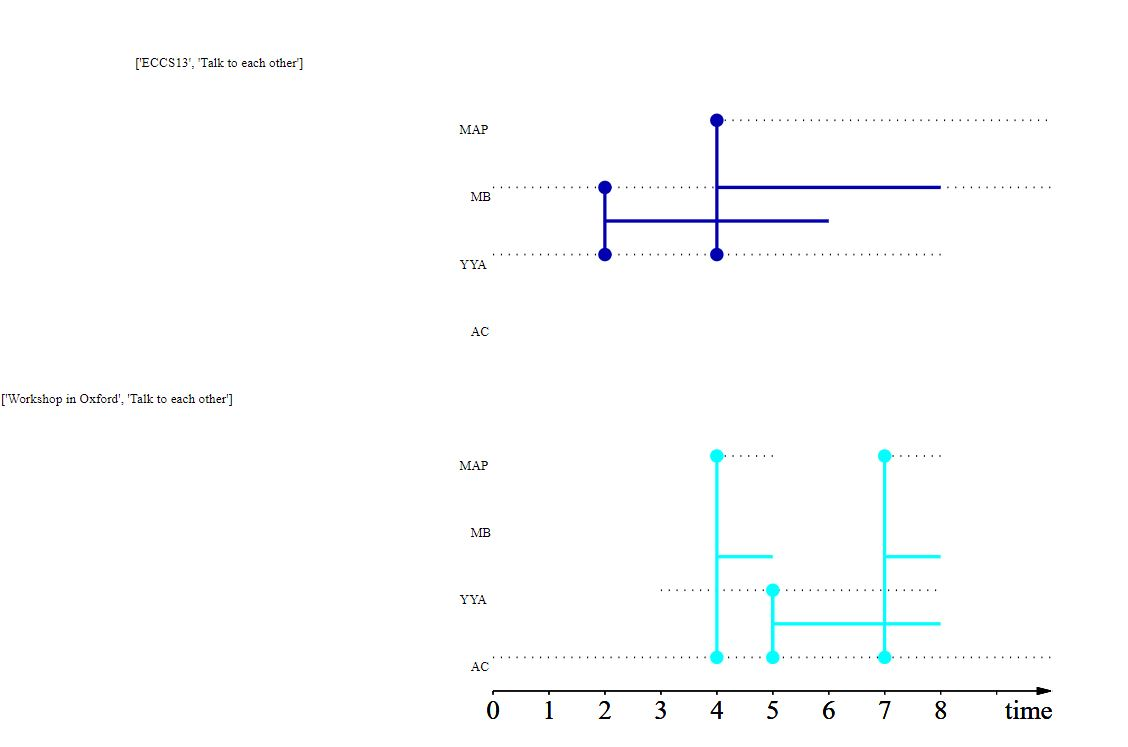
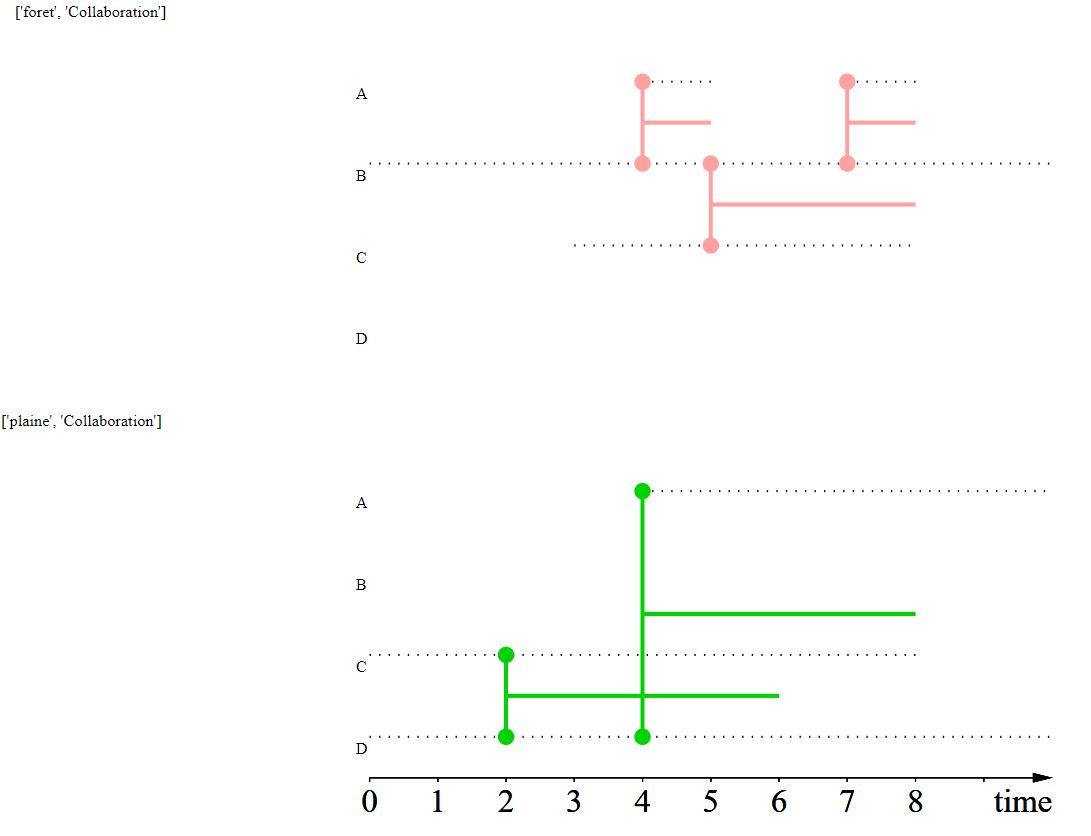
update report

diff --git a/tex/rapport de stage/rapport.tex b/tex/rapport de stage/rapport.tex
@@ -50,6 +50,43 @@
 \newcommand{\yslant}{0.5}
 \newcommand{\xslant}{-0.6}
 
+%%%%%%%%%%%%%%%%%%%%%%%%%%%%%%%% TIKZ STYLES
+\tikzstyle{every node}=[font=\scriptsize]
+
+\tikzset{RootStyle/.style = {
+						shape          = circle,
+			      draw           = red!50!black!50,
+			      thick,
+			      top color      = white,
+			      bottom color   = red!50!black!20,
+			      text           = black,
+			      inner sep      = .2pt,
+			      outer sep      = 0pt,
+			      minimum size   = 2.5 mm}
+						}
+
+\tikzset{VertexStyle/.style = {
+						shape          = circle,
+			      draw           = black!50,
+			      top color      = white,
+			      bottom color   = black!20,
+			      text           = black,
+			      inner sep      = .2pt,
+			      outer sep      = 0pt,
+			      minimum size   = 1.75 mm}
+						}
+
+\tikzset{EdgeStyle/.style   = {thick,<->}}
+
+\tikzset{LabelStyle/.style =   {
+				  text           = black,
+				  inner sep      = .2pt,
+				  outer sep      = 1pt,
+				  font           =\scriptsize,
+				  minimum size   = 2.15 mm}
+					}
+
+
 
 \newcommand\overmat[3]{%
   \makebox[0pt][l]{$\smash{\color{#3}\overbrace{\phantom{%
@@ -161,11 +198,26 @@ Nous avons donné ici la version la plus simple des graphes, mais il existe de n
 
 	Les paires ordonnées servent à représenter des graphes orientés tandis que les paires non ordonnées servent à représenter des graphes non ordonnées.
 
-\begin{figure}[H]
-	\centering
-	\includegraphics[width=0.3\textwidth]{exGraphe.JPG}
-	\caption{Un exemple de graphe de connaissances. Les chercheurs MAP, AC et YYA se connaissent, les chercheurs MB et MAP aussi. En revanche, il n'y a pas de lien entre MB et AC, qui ne se connaissent donc pas.}
+\begin{figure}
+			\begin{center}
+					\begin{tikzpicture}[xscale=2,yscale=2,auto]
+							\draw (2,0) node[VertexStyle]   (A) { A };
+							\draw (0,0) node[VertexStyle] (B) { B };
+							\draw (0,2) node[VertexStyle]   (C) { C };
+							\draw (2,2) node[VertexStyle]   (D) { D };
+
+							\draw[EdgeStyle]				(B) to node[LabelStyle]{}	(A);
+							\draw[EdgeStyle,bend left=40,looseness=1.1]    	(C) to node[LabelStyle]{}   	(A);
+							\draw[EdgeStyle] 	(C) to node[LabelStyle]{}     	(B);
+							\draw[EdgeStyle]  	(C) to node[LabelStyle]{} 		(D);
+							
+
+					\end{tikzpicture}
+			\end{center}
+	\caption{Un exemple de graphe d'interaction, par exemple entre divers individus de la même espèce. Un lien existe entre deux animaux s'ils ont été en contact.}
+	\label{fig:tikzminimal}
 \end{figure}
+
 
 Comme dit en introduction, la théorie des graphes permet de modéliser et de résoudre de nombreux problèmes de la vie réelle, en synthétisant des informations. Ces problèmes sont étudiés depuis plus de 200 ans et nous avons à présent de nombreux outils pour les étudier, même si le domaine est encore en évolution.
 
@@ -291,7 +343,8 @@ La représentation graphique des \stgs{} est une des grandes forces du concept e
 \begin{figure}[H]
 \centering
 \includegraphics[width=0.5\textwidth]{exStreamGraph.JPG}
-\caption{\textbf{Exemple de stream graph.} Dans cet exemple, on représente les interactions entre chercheurs durant une conférence de 10 heures ($T=[0,10]$). Les nœuds sont les trois chercheurs ($V=($MAP,MB,YYA$)$) et leurs intervalles d'existence sont les suivants $T_{\text{MAP}}=[4,10], T_{\text{MB}}=[0,10], T_{\text{YYA}}=[0,8]$, ils représente les moments où les chercheurs étaient présents à la conférence. Enfin les liens $V=([2,6]\times (\text{MB},\text{YYA})) \cup ([4,8]\times(\text{YYA},\text{MAP}))$ représentent les moments où les chercheurs ont discuté entre eux.}
+\caption{\textbf{Exemple de stream graph.} Dans cet exemple, on représente les interactions entre des animaux durant une expérience de 10 heures ($T=[0,10]$). Les nœuds sont les trois individus ($V=($A,B,C$)$) et leurs intervalles d'existence sont les suivants $T_{\text{C}}=[4,10], T_{\text{A}}=[0,10], T_{\text{B}}=[0,8]$, ils représentent les moments où les individus étaient présents dans le milieu d'observation. Enfin les liens $V=([2,6]\times (\text{A},\text{B})) \cup ([4,8]\times(\text{B},\text{C}))$ représentent les moments où les individus ont interagi.}
+\label{exstreamgraph}
 \end{figure}
 
 
@@ -343,7 +396,8 @@ La notion de stream graph permet de "se libérer" de la vision discrétisée des
 	\begin{figure}[H]
 		\centering
 		\includegraphics[width=0.8\textwidth]{exMultiStream.JPG}
-		\caption{La représentation en multilayer stream graph des couches ["ECCS13","Talk to each other"] et ["Workshop in Oxford","Talk to each other"], générée avec "multiplex-stream" (description du programme en \cref{descode})}
+		\caption{La représentation en multilayer stream graph des couches \texttt{["plaine","Collaboration"]} et \texttt{["foret","Collaboration"]}, générée avec "multiplex-stream" (description du programme en \cref{descode})}
+		\label{exstgm}
 	\end{figure}
 	
 	\begin{rmq}
@@ -364,12 +418,16 @@ La notion de stream graph permet de "se libérer" de la vision discrétisée des
 
    \end{defn}
 
-	\begin{figure}[h]
-		\begin{minipage}{0.49\linewidth}
-			%\includegraphics[width=\textwidth]{schemas/pauset.jpg}
+	\begin{figure}[H]
+		\begin{minipage}{0.45\linewidth}
+			\captionsetup{margin=10pt}
+			\includegraphics[width=\textwidth]{extrt4ex.png}
+			\caption{Extraction du \stgm{} \ref{exstgm} au temps $t=4$}
 		\end{minipage}
-		\begin{minipage}{0.49\linewidth}
-			%\includegraphics[width=\textwidth]{schemas/pausetproj.jpg}
+		\begin{minipage}{0.45\linewidth}
+			\captionsetup{margin=10pt}
+			\includegraphics[width=\textwidth]{extrt7ex.png}
+			\caption{Extraction du \stgm{} \ref{exstgm} au temps $t=7$}
 		\end{minipage}
 		\caption{dessin d'une extraction}
 	\end{figure}
@@ -382,6 +440,12 @@ La notion de stream graph permet de "se libérer" de la vision discrétisée des
     	E_{M,I} = \bigcup_{t\in T} E_{M,t}\\
     \end{align*}
     \end{defn}
+    
+    \begin{figure}[H]
+    	\centering
+    	\includegraphics[width=0.5\textwidth]{extrt010.png}
+    	\caption{Graphe multicouche induit du \stgm{} \ref{exstgm}.}
+    \end{figure}
 	
 
 
@@ -657,7 +721,7 @@ Nous avons donc choisi une structure de multilayer suivante : \\
   
 	\subsubsection{Représentation graphique}  
   
-  Nous avons tout d'abord tenté de représenter le graphe multicouche en entier (\cref{lyceeentier}). Sa taille le rend difficile à représenter (d'ailleurs, trouver un ordre optimal pour les noeuds qui limite les croisements des liens est un problème d'optimisation qui n'a pas encore été résolu de façon satisfaisante).
+  Nous avons tout d'abord tenté de représenter le graphe multicouche en entier (\cref{lyceeentier}). La taille du jeu de données le rend difficile à représenter du fait que beaucoup de liens s'entrecroisent. (D'ailleurs, trouver un ordre optimal pour les noeuds qui limite les croisements des liens avec d'autres noeuds est un problème d'optimisation qui n'a pas encore été résolu de façon satisfaisante).
 	
 	\begin{figure}[h]
 	\includegraphics[width=\textwidth]{lyceeentier.JPG}
@@ -698,26 +762,46 @@ Voici quelques exemples de sous-graphes tels que nous les avons définis \cref{s
 		\centering
 		\includegraphics[width=\textwidth]{sousmulticlasseftf.png}
 		\captionsetup{margin=10pt}
-		\caption{\textbf{Visualisation du sous graphe induit multicouches des relations \texttt{'face to face'}, entre les élèves de deux classes} : les \texttt{'2BIO1'} et les \texttt{'MP'}.}
+		\caption{\textbf{Visualisation du sous graphe multicouches induit des relations \texttt{'face to face'}, entre les élèves de deux classes} : les \texttt{'2BIO1'} et les \texttt{'MP'}.}
 	\end{minipage}
-	\label{induit}
 	\caption{\textbf{Comparaison entre différents aspects du graphe multicouche. } On peut s'intéresser à la pertinence de séparer filles et garçons en différentes couches. En revanche, la séparation entre différentes classes semble être justifiée.}
+	\label{induit}
 \end{figure}
 	
-	On peut alors se demander en regardant ces interactions, si le partitionnement différentiant les femmes et les hommes est "visible" d'un point de vue des interactions.
+	
+\subsubsection{Etude des densités intra-couches et inter-couches pour plusieurs aspects}
+	On peut alors se demander en regardant ces interactions \cref{induit} et \cref{completinduit} , si le partitionnement différentiant les femmes et les hommes est "visible" d'un point de vue des interactions.
 
-Nous avons donc calculé la densité des relations femmes/hommes comparée aux densité des relations au sein des hommes et des femmes, au fil des jours.
+Nous avons donc calculé la densité des relations femmes/hommes comparée aux densité des relations au sein des hommes et des femmes, au fil des jours. Cette densité correspond à la probabilité, prenant un temps aléatoire et deux noeuds aléatoires, ces noeuds soient reliés par une arête.
 
+Au sein des hommes, des femmes, ou pour la densité totale, on calcule donc :$$
+\delta = \frac{\sum_{u,v \in V\otimes V} |T_{uv}|}{\sum_{u,v \in V \otimes V}|T_u\cap T_v|} = \frac{|E|}{|T|(|V|(|V|-1))}$$
+et dans le graphe biparti des interactions hommes-femmes, la densité est :
+$$\delta_{biparti}=\frac{\sum_{u,v \in V_f \times V_h} |T_{uv}|}{\sum_{u,v \in V_f \times V_h}|T_u\cap T_v|}=\frac{|E|}{|T||V_f||V_h|}$$
 \begin{figure}[H]
 	\centering
 	\includegraphics[width=0.5\textwidth]{compfg.png}
-	\caption{Densité des relations au sein des femmes, des hommes, des relations inter-hommes/femmes, et des relations en général}
+	\caption{Densité des relations au sein des femmes, des hommes, des relations inter-hommes/femmes, et des relations en général prise chaque jour de la semaine.}
 	\label{densitesemaine}
 \end{figure}
 
-Nous voyons qu'une tendance se confirme : les relations sont plus denses au sein d'un même sexe qu'en moyenne, et les relations inter-sexes sont moins denses qu'en moyenne.
+Nous voyons qu'une tendance se confirme : les relations sont plus denses au sein d'un même sexe qu'en moyenne, et les relations inter-sexes sont moins denses qu'en moyenne. La question que nous pouvons alors nous poser est "qu'est-ce que nous apporte la vision des \stgm{} ?" Nous avons donc tracé les mêmes densités pour des graphes multicouches sous-jacents correspondant aux jours de la semaine (\cref{dsj}). Nous obtenons les mêmes tendances mais moins "contrastées" puisqu'une relation de longue durée \og pèse \fg{} autant qu'une relation de courte durée qui a pu être enregistrée \og par hasard \fg{}.
 
+\begin{figure}[H]
+	\centering
+	\includegraphics[width=0.5\textwidth]{densitesj.png}
+	\caption{Densité des graphes sous-jacent pour les 5 jours de la semaine.}
+	\label{dsj}
+\end{figure}
 
+Nous avons comparé les différentes densités pour les aspects \texttt{'facebook'} et \texttt{'frienship'}. Nous avons alors relevé les mêmes tendances, et même nettement plus accentuées pour les relations amicales, où les relations intra-hommes passent en dessous de la moyenne. \cref{comp}
+
+\begin{figure}[H]
+	\centering
+	\includegraphics[width=0.5\textwidth]{comparatif.png}
+	\caption{Comparatif des densités pour les relations \texttt{'face to face'}, \texttt{'facebook'} et \texttt{'friendship'} en échelle logarithmique, pour les aspects \texttt{'hommes'}, \texttt{'femmes'}, le graphe inter-couche \texttt{'hommes'/'femmes'} et le graphe en entier.}
+	\label{comp}
+\end{figure}  
 
 \subsection{Star Wars}
 

diff --git a/tex/rapport de stage/multi/graphe.tex b/tex/rapport de stage/multi/graphe.tex
@@ -1,0 +1,63 @@
+\documentclass[dvipsnames]{article}
+
+\usepackage{tikz}
+
+%%%%%%%%%%%%%%%%%%%%%%%%%%%%%%%% TIKZ STYLES
+\tikzstyle{every node}=[font=\scriptsize]
+
+\tikzset{RootStyle/.style = {
+						shape          = circle,
+			      draw           = red!50!black!50,
+			      thick,
+			      top color      = white,
+			      bottom color   = red!50!black!20,
+			      text           = black,
+			      inner sep      = .2pt,
+			      outer sep      = 0pt,
+			      minimum size   = 2.5 mm}
+						}
+
+\tikzset{VertexStyle/.style = {
+						shape          = circle,
+			      draw           = black!50,
+			      top color      = white,
+			      bottom color   = black!20,
+			      text           = black,
+			      inner sep      = .2pt,
+			      outer sep      = 0pt,
+			      minimum size   = 1.75 mm}
+						}
+
+\tikzset{EdgeStyle/.style   = {thick,<->}}
+
+\tikzset{LabelStyle/.style =   {
+				  text           = black,
+				  inner sep      = .2pt,
+				  outer sep      = 1pt,
+				  font           =\scriptsize,
+				  minimum size   = 2.15 mm}
+					}
+
+\begin{document}
+
+\begin{figure}
+			\begin{center}
+					\begin{tikzpicture}[xscale=2,yscale=2,auto]
+							\draw (2,0) node[VertexStyle]   (A) { A };
+							\draw (0,0) node[VertexStyle] (B) { B };
+							\draw (0,2) node[VertexStyle]   (C) { C };
+							\draw (2,2) node[VertexStyle]   (D) { D };
+
+							\draw[EdgeStyle]				(B) to node[LabelStyle]{}	(A);
+							\draw[EdgeStyle,bend left=40,looseness=1.1]    	(C) to node[LabelStyle]{}   	(A);
+							\draw[EdgeStyle] 	(C) to node[LabelStyle]{}     	(B);
+							\draw[EdgeStyle]  	(C) to node[LabelStyle]{} 		(D);
+							%\draw[EdgeStyle,bend left=40,looseness=1.1]   	(A) to node    	(sink);
+
+					\end{tikzpicture}
+			\end{center}
+	\caption{Un super graphe en TiKz}
+	\label{fig:tikzminimal}
+\end{figure}
+
+\end{document}
